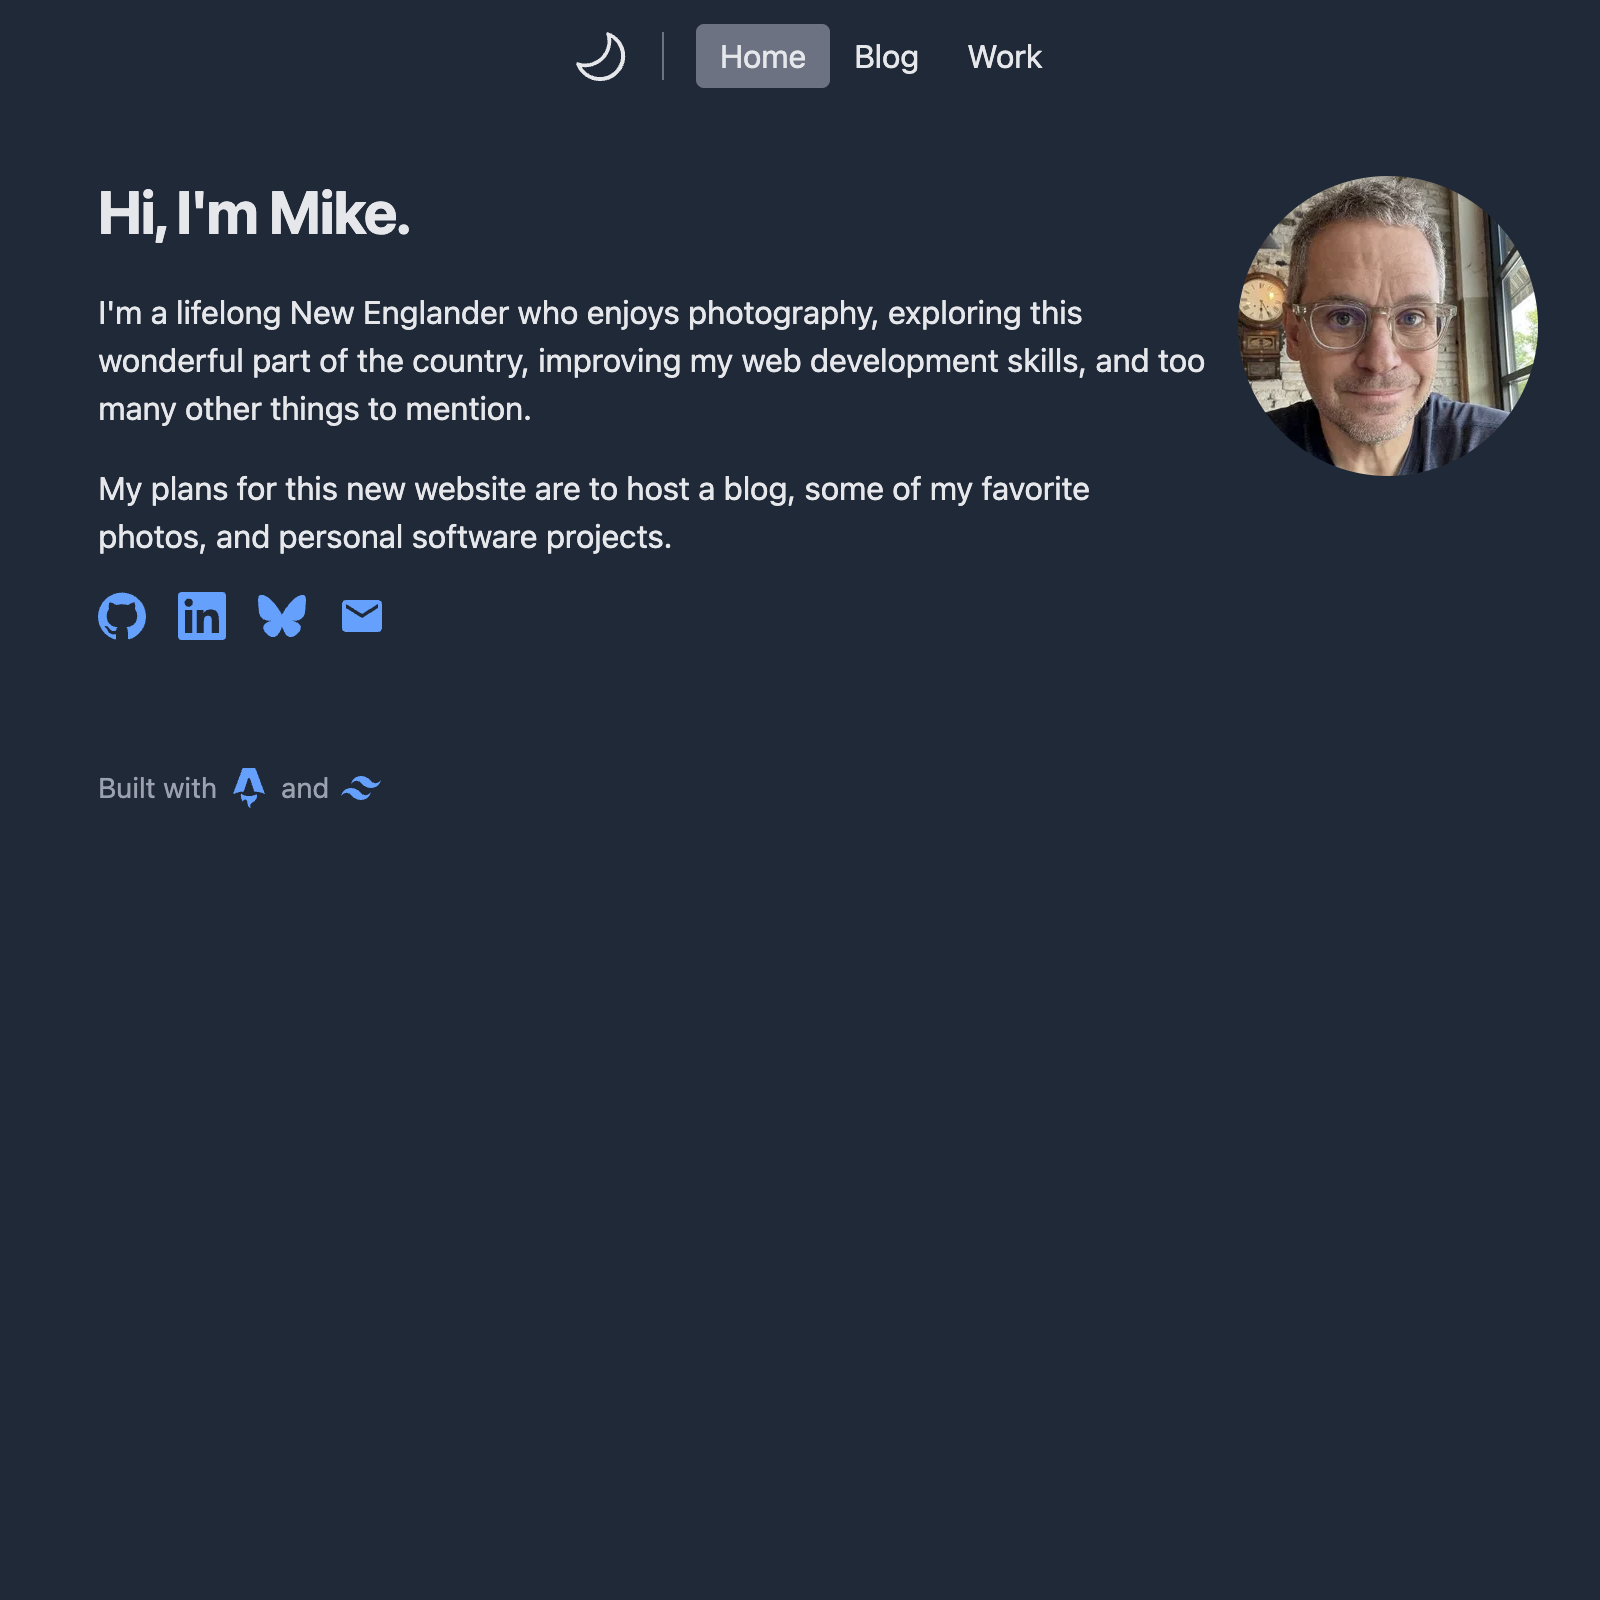
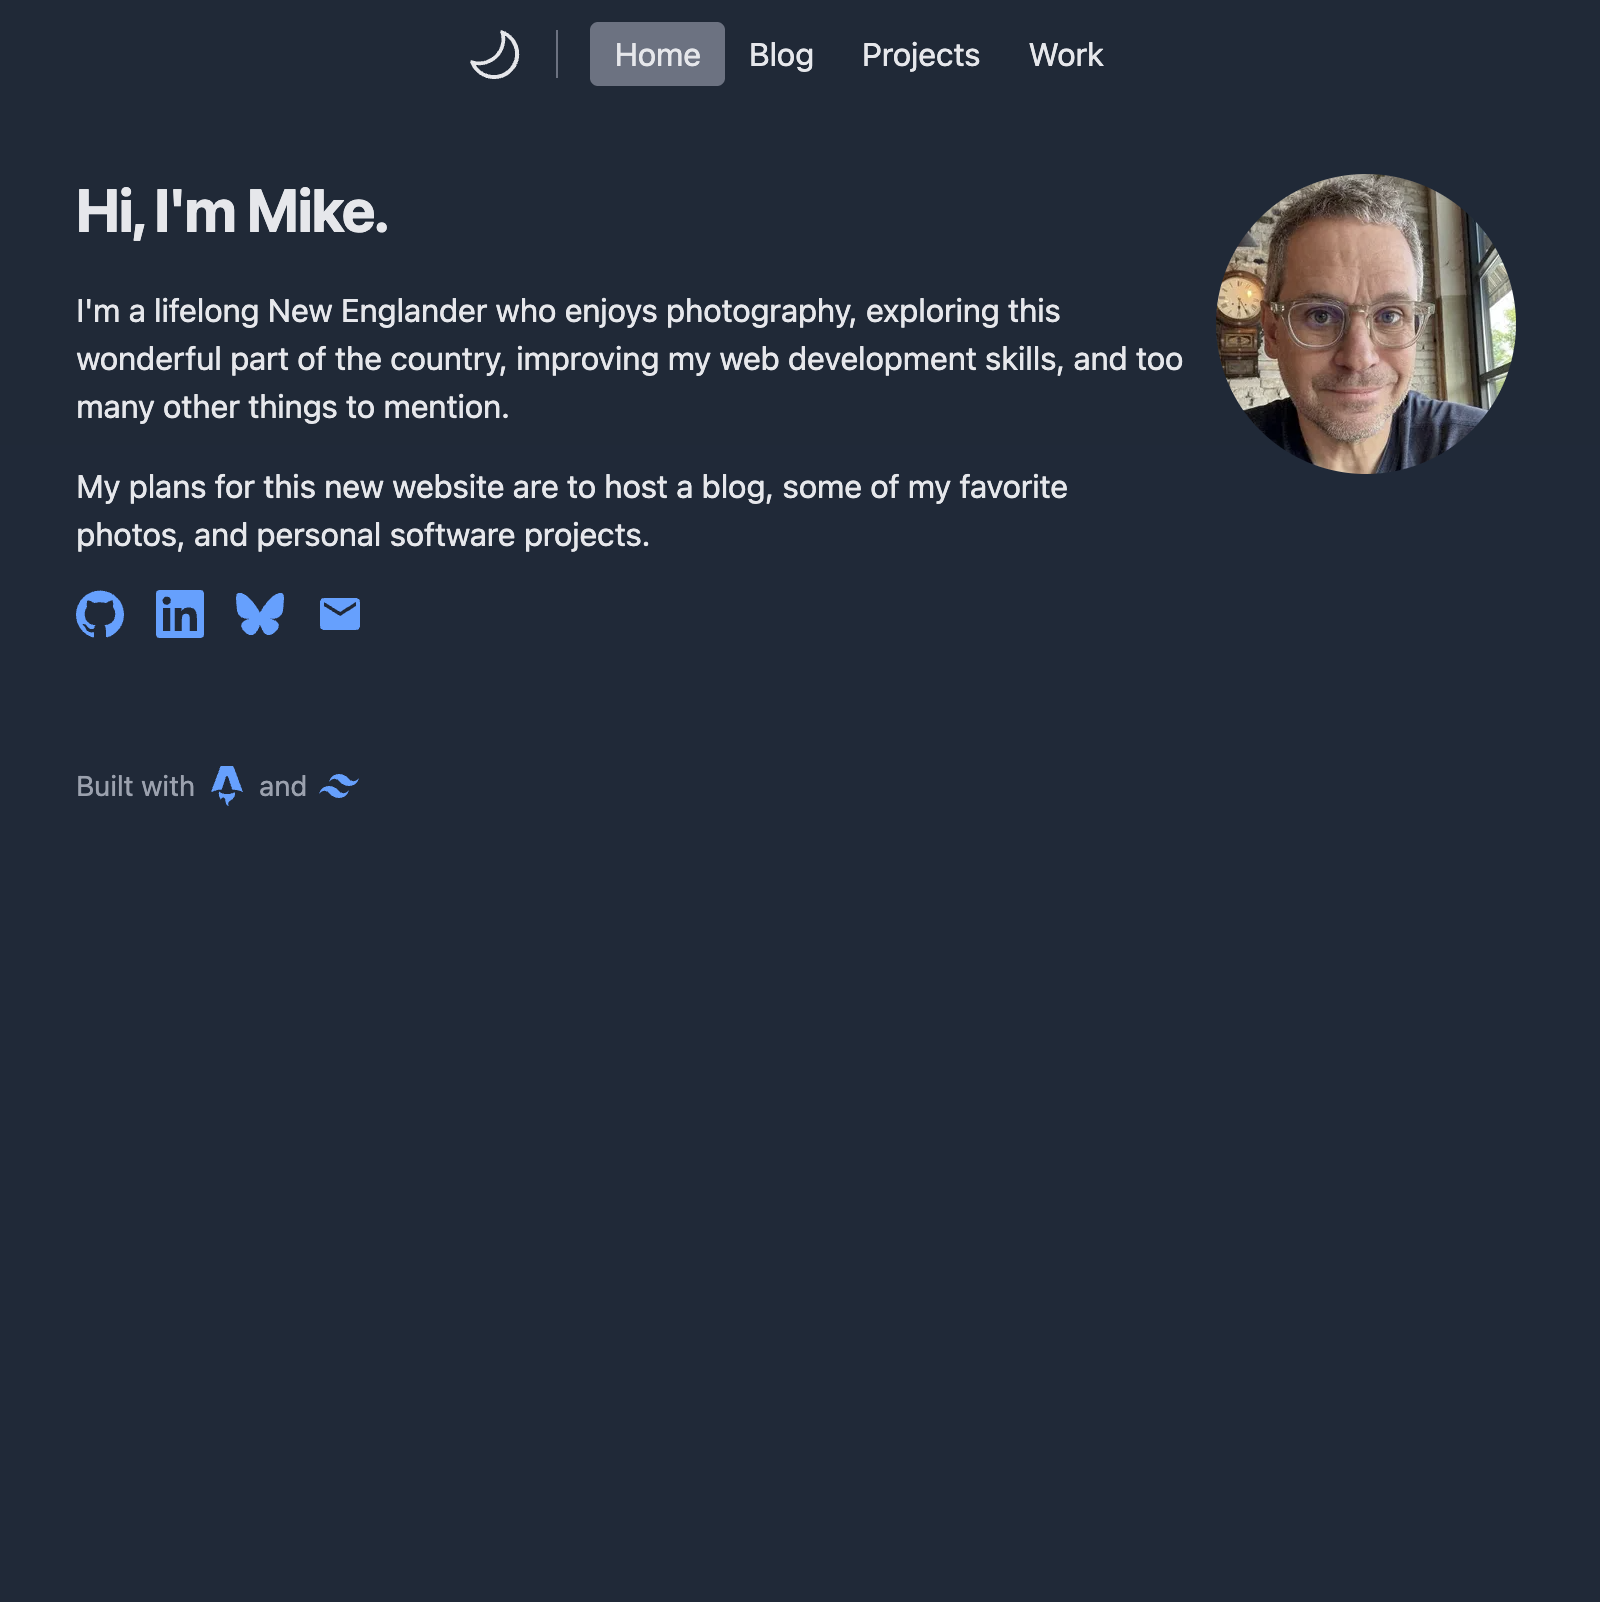
Update features, screenshot

diff --git a/README.md b/README.md
@@ -1,23 +1,23 @@
 # README
 
-A project to build a personal website using Astro. This will eventually include a blog, a photo gallery, and some web development projects.
+A project to build a personal website using Astro. This will eventually include a blog, a photo gallery, and some web development projects. I used Astro's excellent [build a blog](https://docs.astro.build/en/tutorial/0-introduction/) tutorial as a starting point.
 
-URL: [mleroux.me](https://mleroux.me)
+Live URL: [mleroux.me](https://mleroux.me)
 
 ## Features
 
 - Responsive design with mobile dropdown menu
-- Nearly all styling handled by Tailwind CSS utility classes
+- Tailwind CSS utility classes handle almost all styling
 - Light/dark mode switcher
+- SVG icons for social and contact links
 - Simple weblog:
     - Pagination
     - Tags
     - Code snippet styling
-    - An RSS feed, and an archive list of posts
-- Projects page featuring GitHub repos and live versions deployed on Netlify
+    - An RSS feed
+    - A "archive" list of all posts
+- Projects page featuring GitHub repos and live deployed versions
 - Work page with resumé
-- SVG icons for social and contact links
-- Application automatically deployed to Netlify after each repo update
 
 ## Tech Stack
 
@@ -29,7 +29,7 @@ URL: [mleroux.me](https://mleroux.me)
 
 ## Improvements
 
-- [ ] Photo gallery
+- [ ] Custom photo gallery
 
 ## Run locally
 
